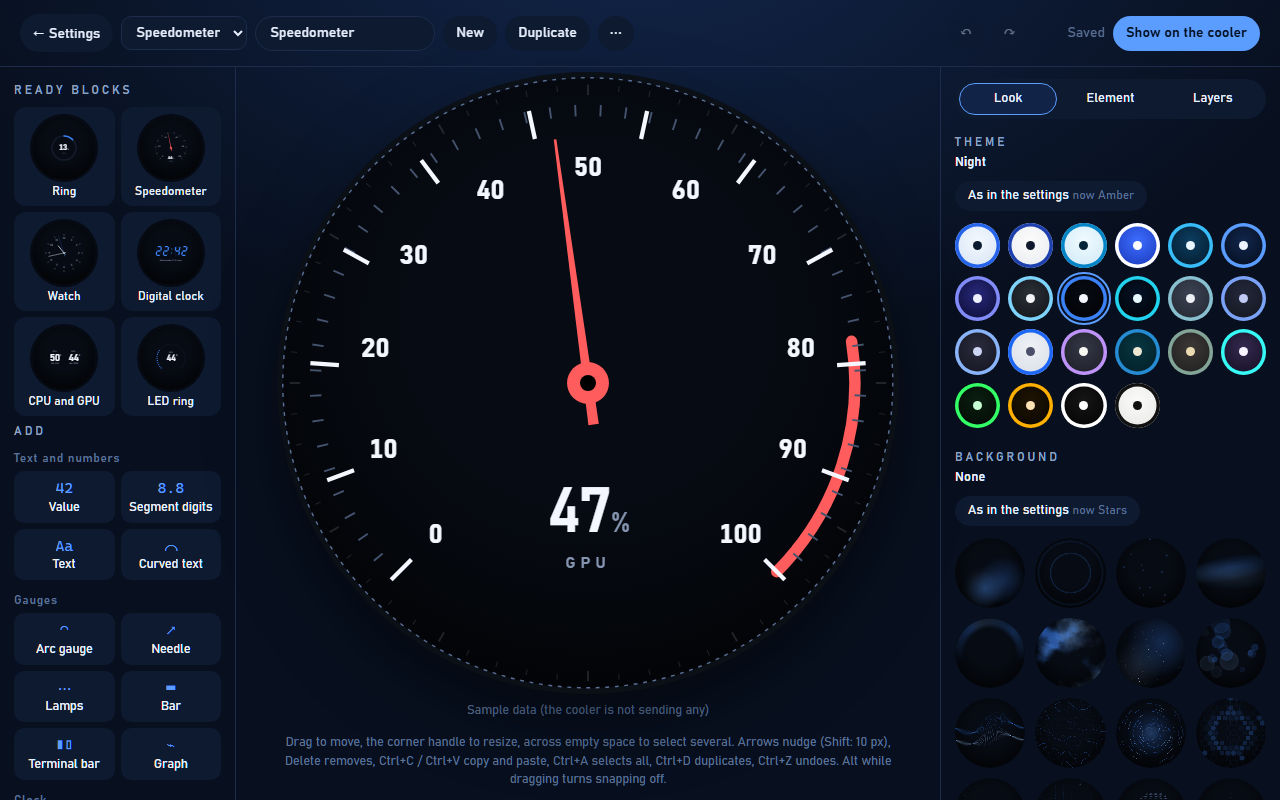
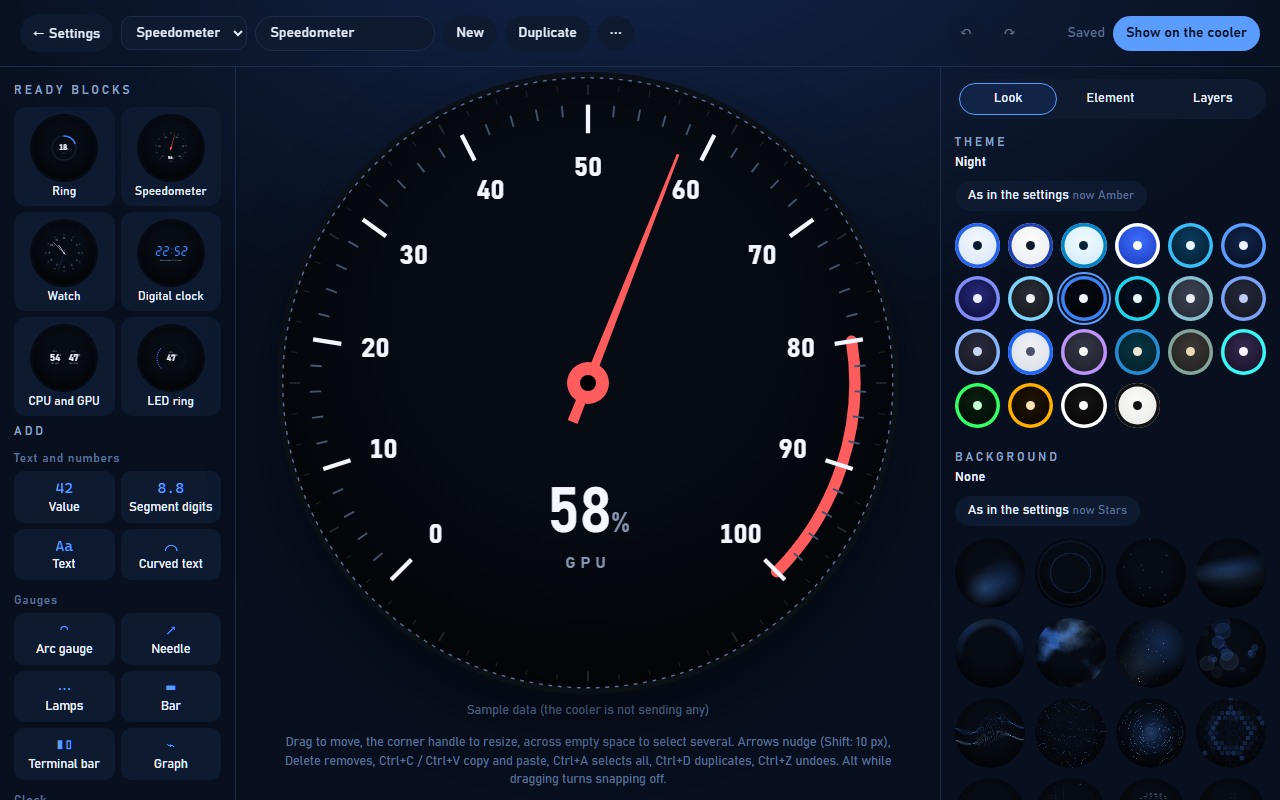
Ticks: count is the number of ticks on an arc too
On a partial arc, count: 11 drew 12 ticks, so the speedometer's big
ticks fell between its numbers. Lamps and numerals already count items;
ticks now do as well. count: 1 no longer divides by zero.

Also fixes the CONTRIBUTING anchor in docs/faces.md.

diff --git a/web/faces.js b/web/faces.js
@@ -717,11 +717,12 @@
       },
       resize: scaled("r", "length"),
       build(g, w) {
-        // a full turn would put the last tick on the first
+        // count is the number of ticks, as with lamps and numerals; K.ticks takes the gaps
+        // between them. A full turn would put the last tick on the first, so it stops a gap short.
         const full = Math.abs(w.end - w.start) >= 360;
         const n = Math.round(w.count);
-        const end = full ? w.start + ((w.end - w.start) * (n - 1)) / n : w.end;
-        K.ticks(g, w.r - w.length, w.r, w.start, end, full ? n - 1 : n, w.x, w.y, w.width);
+        const end = n === 1 ? w.start : full ? w.start + ((w.end - w.start) * (n - 1)) / n : w.end;
+        K.ticks(g, w.r - w.length, w.r, w.start, end, Math.max(1, n - 1), w.x, w.y, w.width);
         if (colorOf(w.color)) for (const l of g.children || []) l.style && (l.style.stroke = colorOf(w.color));
         return null;
       },

diff --git a/docs/faces.md b/docs/faces.md
@@ -31,7 +31,7 @@ The faces in the **Gallery** use the same format. They come with KrakenDial, fro
 
 A gallery face is picked as the layout `gallery:<id>`. Its file has one more field, `group`, which places it in the gallery: `clock`, `gauge`, `retro`, `minimal` or `ai`. The `ai` group is for faces that show limits or costs; the settings and the editor only offer it once a usage source is set. Faces in the other groups must not use the usage source. `node tests/web.js` checks that, and that every widget and value in each file comes through the checks below unchanged.
 
-See [CONTRIBUTING.md](../CONTRIBUTING.md#adding-a-gallery-face) for adding one.
+See [CONTRIBUTING.md](../CONTRIBUTING.md#a-gallery-face) for adding one.
 
 ## Coordinates
 
